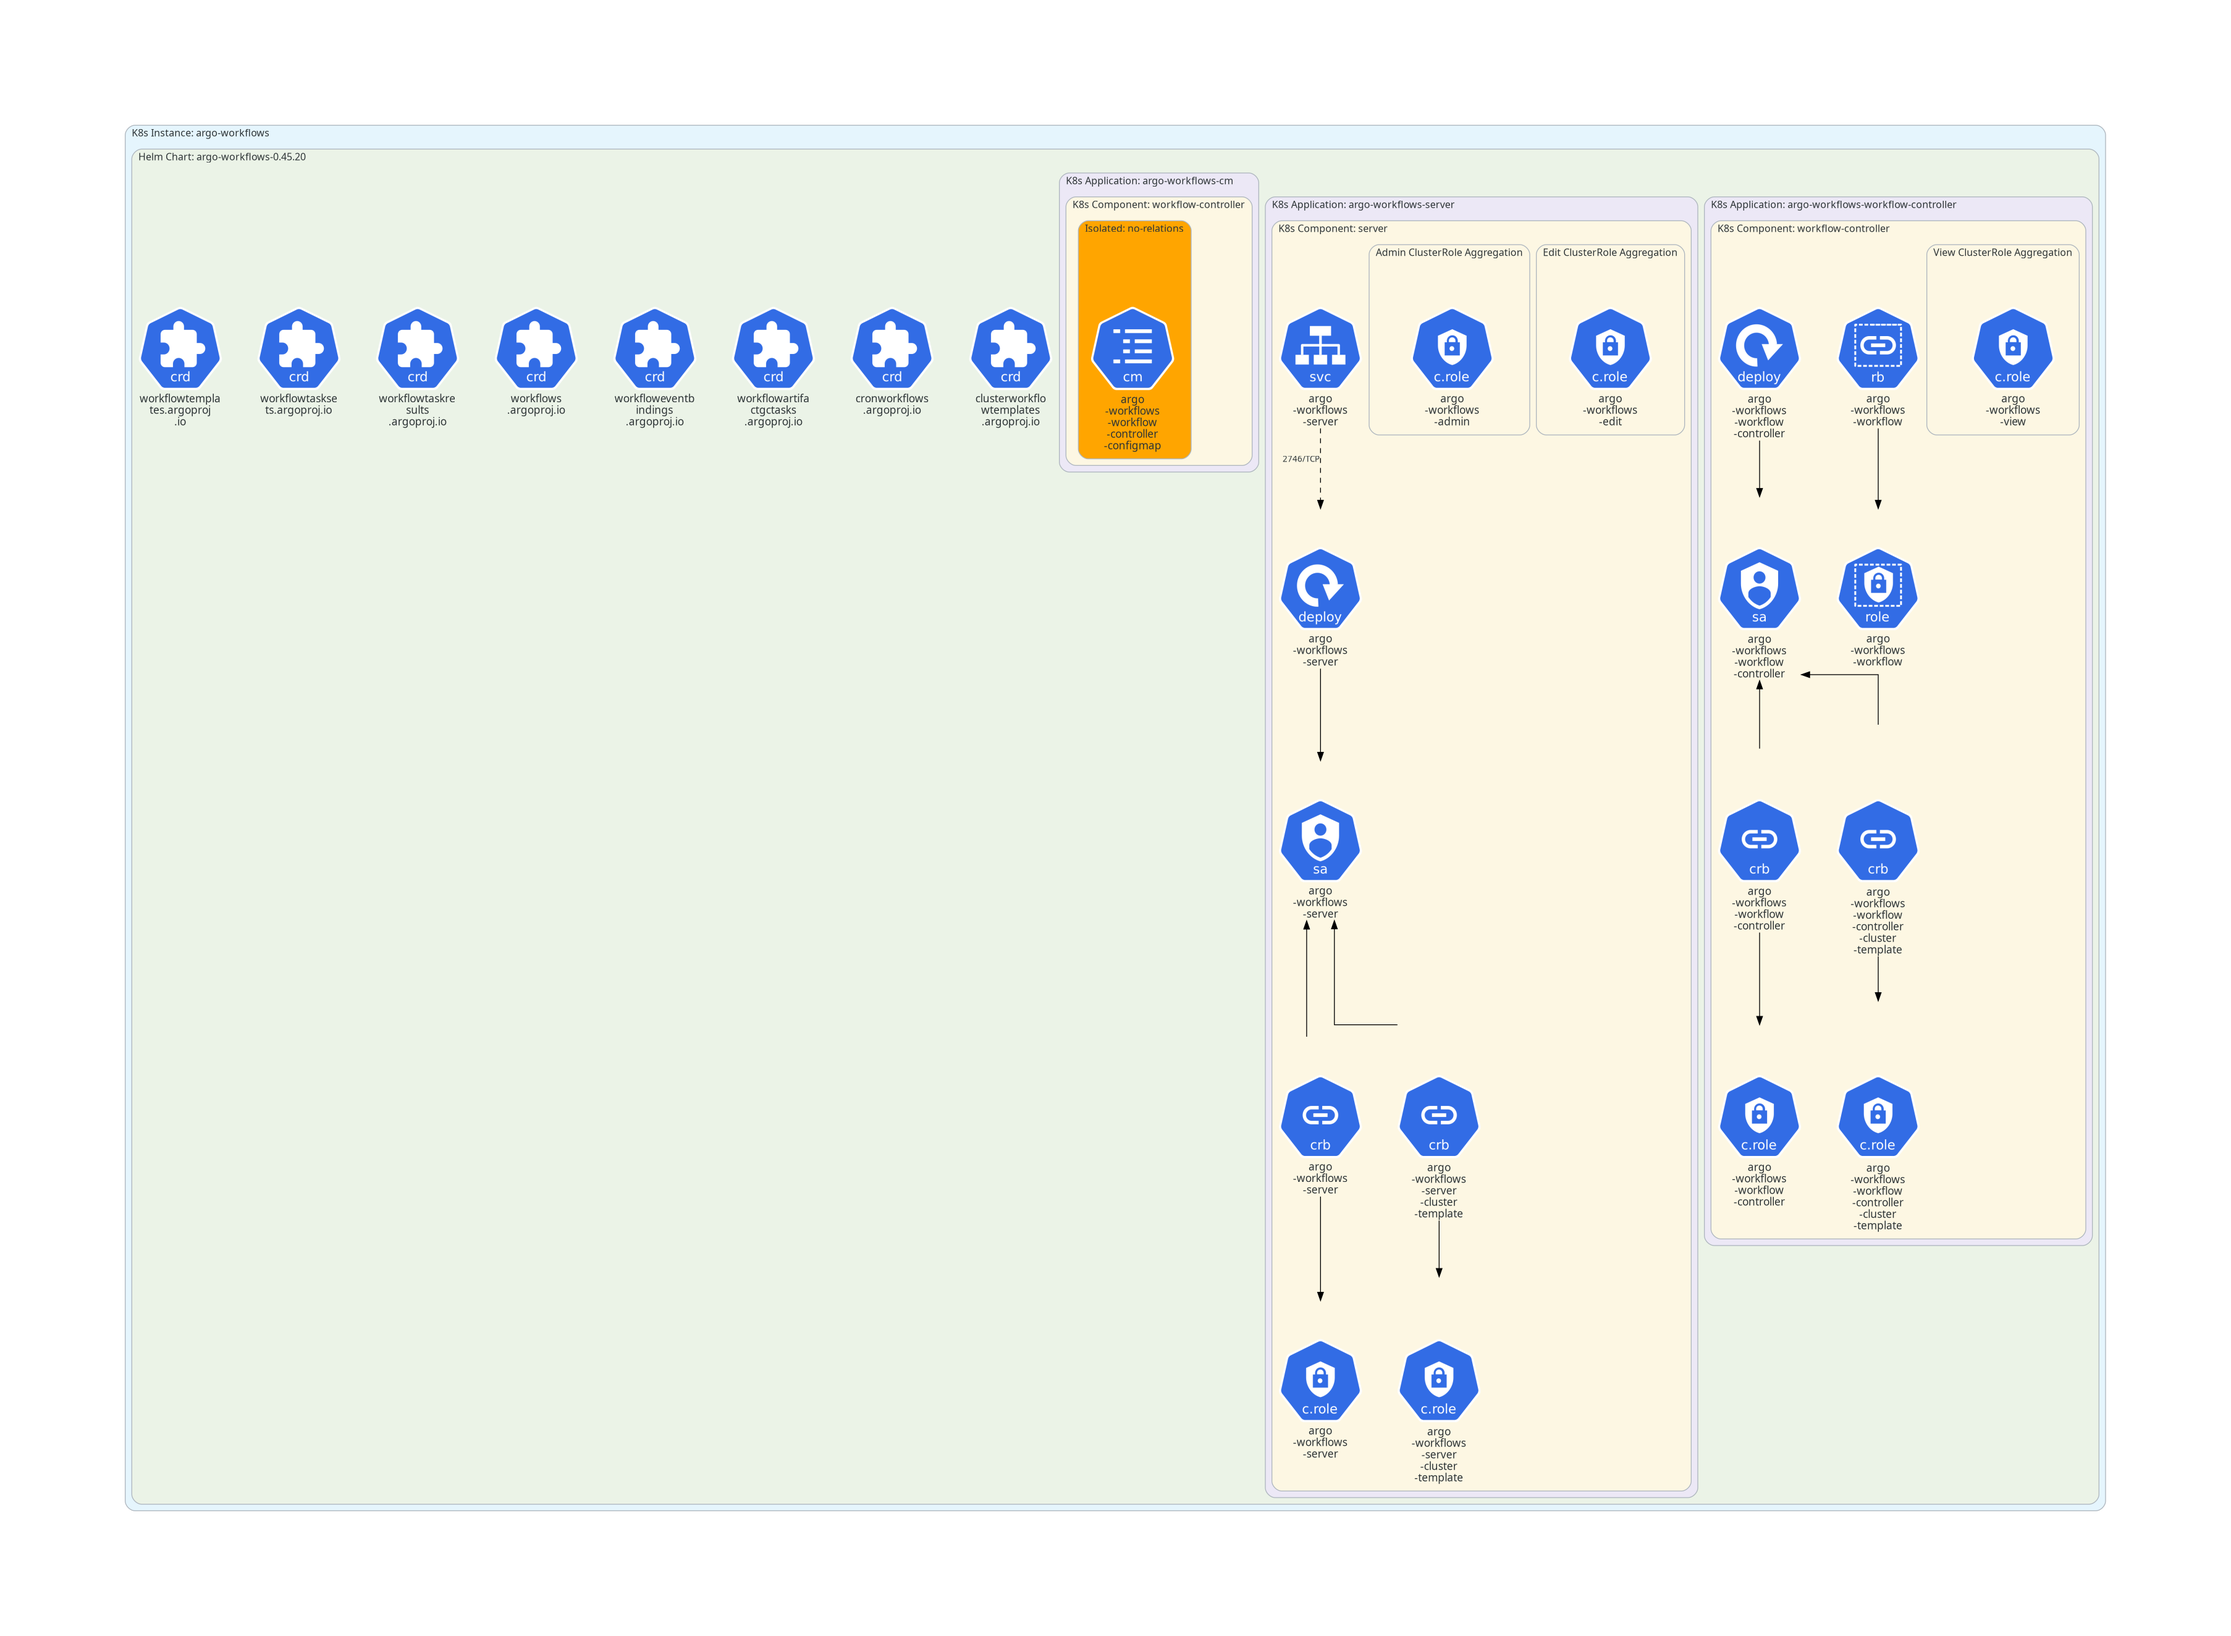
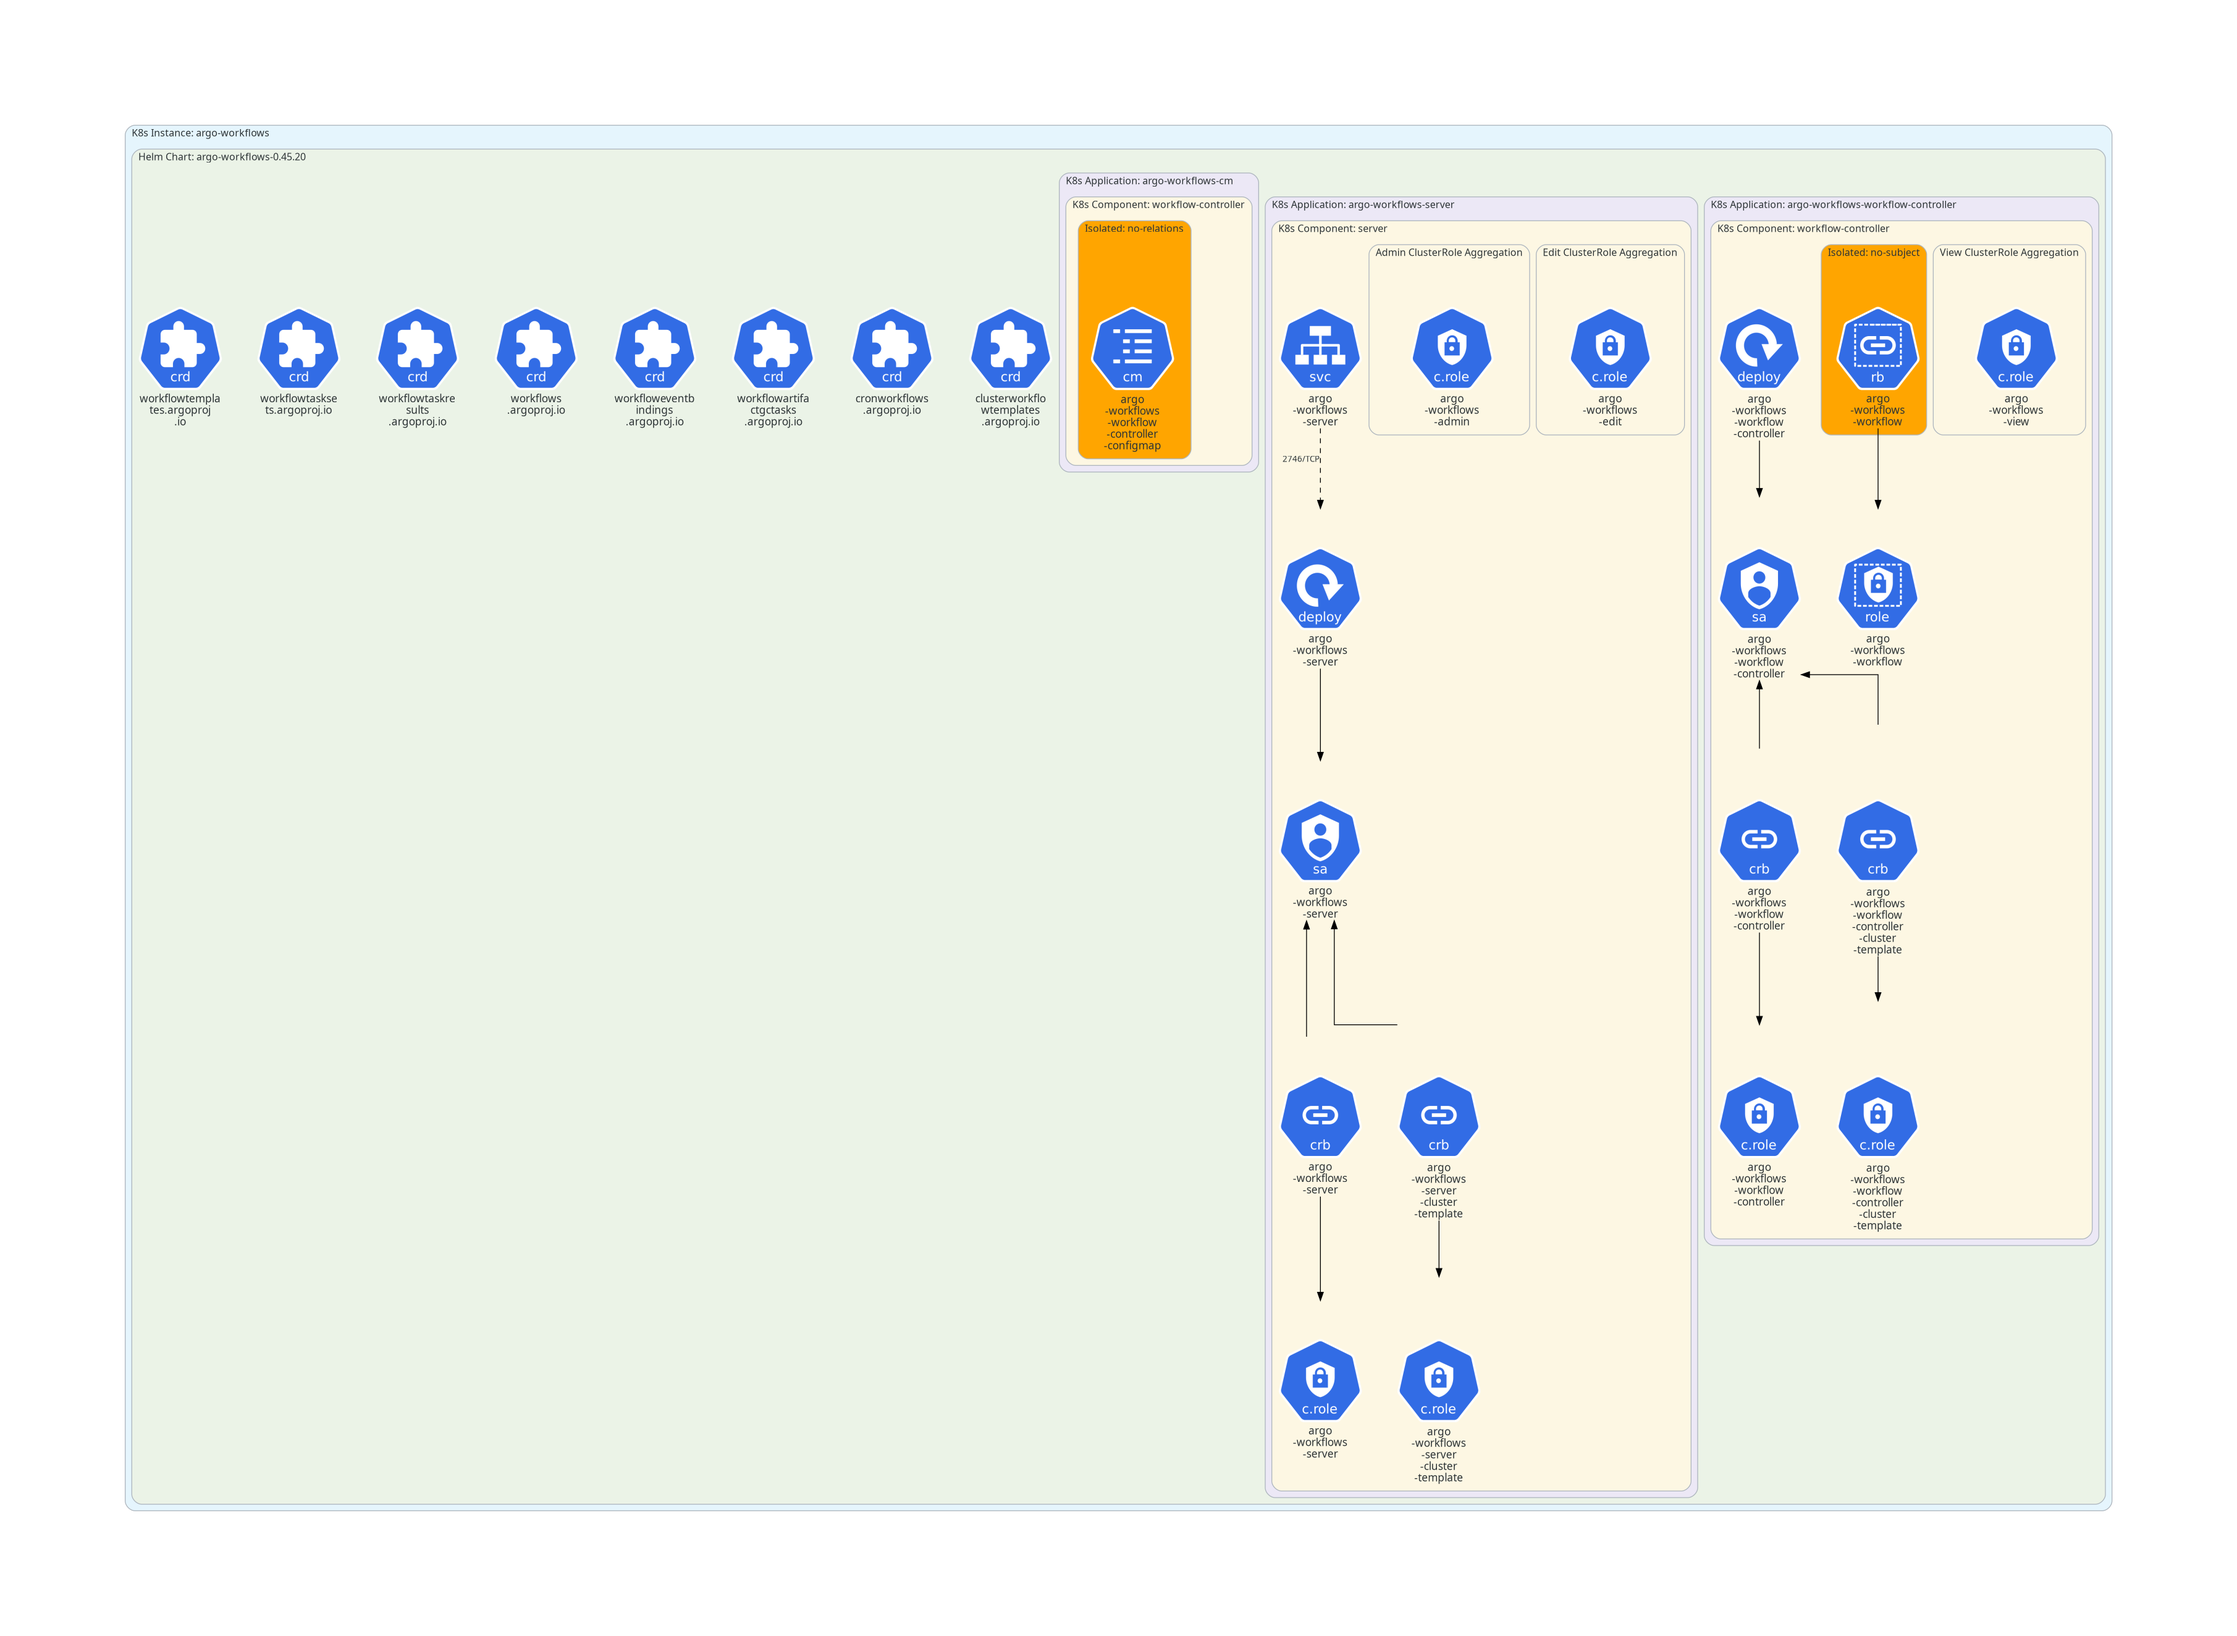
isolation algo : add a subject check for bindings

diff --git a/src/kubefix/algo_mark_isolated.py b/src/kubefix/algo_mark_isolated.py
@@ -78,8 +78,8 @@ def _isolated_no_relation(resources, parent_map, child_map, config, warnings, st
                         ))
 
 def _isolated_missing_relation(resources, parent_map, child_map, config, resources_by_rid, warnings, stats):
-    """Add an 'isolated-resource' label to bindings that has a missing subject and
-    roles that have a missing bindings.
+    """Add an 'isolated-resource' label to bindings that have a missing role and/or
+    subject, and roles that have a missing binding.
 
     Args:
         resources: list of Kubernetes resources (dicts).
@@ -99,23 +99,38 @@ def _isolated_missing_relation(resources, parent_map, child_map, config, resourc
         rid = compute_rid(resource, config)
         metadata = resource.setdefault("metadata", {})
         labels = metadata.get("labels") or {}
-        reason = None
+        namespace = metadata.get("namespace") or "default"
+        cluster_resources = config.get("cluster-resources", [])
+        # (label code, warning message) for each missing relation
+        reasons = []
 
         if kind in BINDINGS:
-            # skip if resource referenced by this binding is a K8s specific thing
+            children = child_map.get(rid, [])
+
+            # role check, skipped if the role referenced by this binding is a K8s specific thing
             role_ref = resource.get("roleRef") or {}
             if role_ref.get("kind") == "Role":
-                namespace = metadata.get("namespace") or "default"
                 role_rid = f"{role_ref.get('name')}/{namespace}/Role/rbac.authorization.k8s.io/v1"
             else:
                 role_rid = f"{role_ref.get('name')}/ClusterRole/rbac.authorization.k8s.io/v1"
 
-            if role_rid in config.get("cluster-resources", []):
-                continue
+            if role_rid not in cluster_resources:
+                if not any(resources_by_rid[c]["kind"] in ROLES for c in children):
+                    reasons.append(("no-role", "Resource is a binding but has no edge to a role"))
 
-            children = [resources_by_rid[c]["kind"] for c in child_map.get(rid, [])]
-            if not any(k in ROLES for k in children):
-                reason = "Resource is a binding but has no edge to a role"
+            # subject check, users and groups are external identities so only service accounts can have an edge
+            subjects = resource.get("subjects") or []
+            if not subjects:
+                reasons.append(("no-subject", "Resource is a binding but has no subjects"))
+            else:
+                for subject in subjects:
+                    if subject.get("kind") != "ServiceAccount":
+                        continue
+                    sa_namespace = subject.get("namespace") or namespace
+                    sa_rid = f"{subject.get('name')}/{sa_namespace}/ServiceAccount/v1"
+                    if sa_rid not in cluster_resources and sa_rid not in children:
+                        reasons.append(("no-subject", f"Resource is a binding but has no edge to its subject ServiceAccount '{subject.get('name')}'"))
+                        break
 
         else:  # roles
             # skip roles aggregated by K8s = has specific labels
@@ -124,19 +139,21 @@ def _isolated_missing_relation(resources, parent_map, child_map, config, resourc
 
             parents = [resources_by_rid[p]["kind"] for p in parent_map.get(rid, [])]
             if not any(k in BINDINGS for k in parents):
-                reason = "Resource is a role but has no edge from a binding"
+                reasons.append(("no-binding", "Resource is a role but has no edge from a binding"))
 
-        if reason is None:
+        if not reasons:
             continue
 
-        if labels.get(ISOLATED_LABEL) != "no-relations":  # keep the stronger signal
-            labels[ISOLATED_LABEL] = "missing-relations"
+        # concatenate the reasons, for example : 'no-role-no-subject'
+        code = "-".join(c for c, _ in reasons)
+        existing = labels.get(ISOLATED_LABEL)
+        labels[ISOLATED_LABEL] = f"{existing}-{code}" if existing else code
         metadata["labels"] = labels
 
         warnings.append(Warning(
             resource_kind=kind,
             resource_name=metadata.get("name", "?"),
-            message=f"{reason}; marked as isolated.",
+            message=f"{'; '.join(m for _, m in reasons)}; marked as isolated.",
         ))
         stats.append(Stat(resource_kind=kind, resource_name=metadata.get("name", "?"), changed_labels=1))
 
@@ -146,7 +163,9 @@ def algo_mark_isolated(resources):
     value gives the reason:
 
     - 'no-relations': no relations with other resources, but should have at least one
-    - 'missing-relations': a binding or role missing a relation its kind requires
+    - 'no-role' / 'no-subject': a binding missing its role and/or a subject,
+      concatenated when both are missing, for example : 'no-role-no-subject'
+    - 'no-binding': a role that isn't bound by any binding
     - 'no-labels': no cluster labels
 
     A resource with no cluster labels that is already marked gets '-no-labels'
